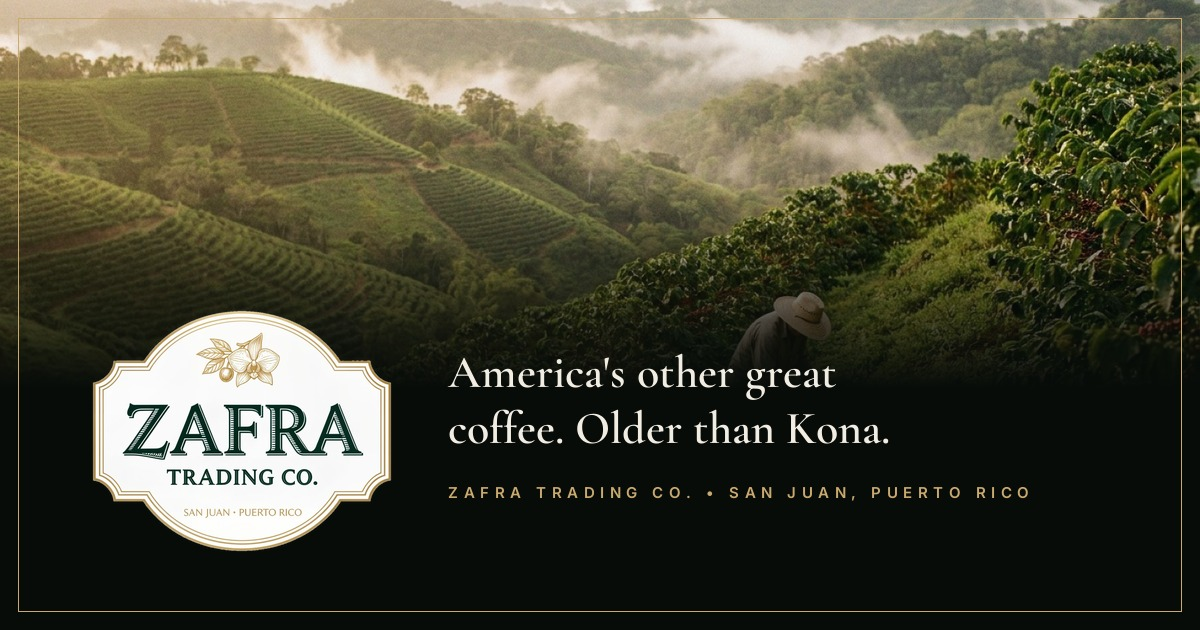
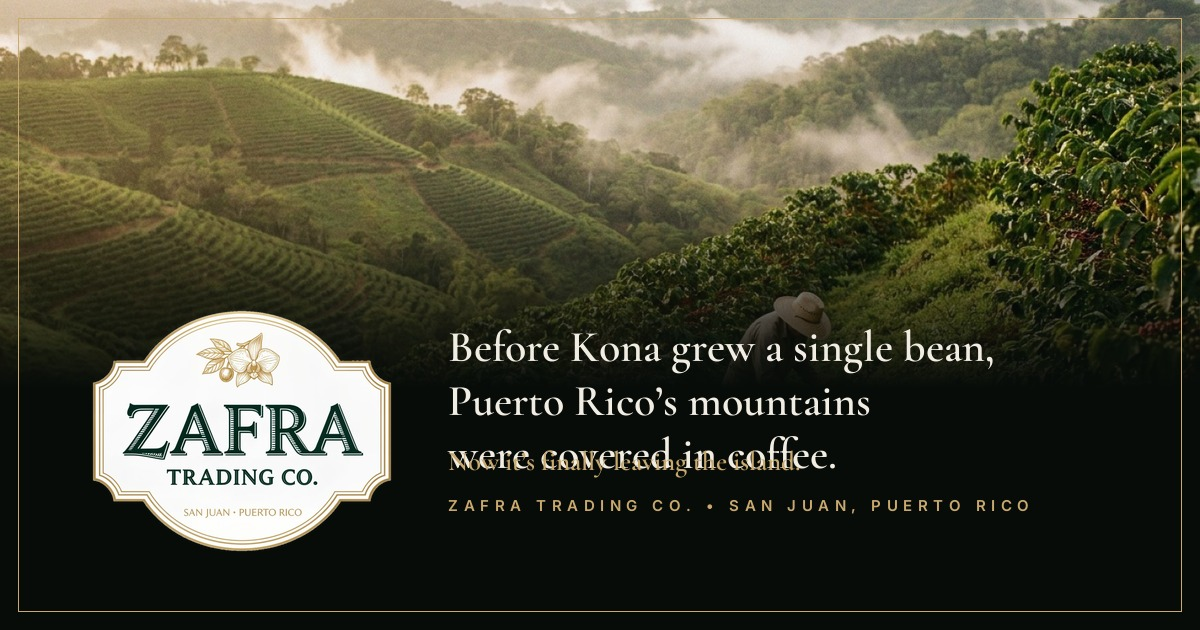
Rotating hero A/B/C (sticky per visitor, ?hero= preview, variant logged in signup mailto), focal recrop 66%, story 1900-1901 + Kona entry, OG/meta = variant A

Changed region(s): [[0.37, 0.5127, 0.8633, 0.8143]]

diff --git a/index.html b/index.html
@@ -3,7 +3,7 @@
 <head>
 <meta charset="UTF-8">
 <meta name="viewport" content="width=device-width, initial-scale=1.0">
-<title>Zafra Trading Co. — America's other great coffee.</title>
+<title>Zafra Trading Co. — Before Kona grew a single bean, Puerto Rico's mountains were covered in coffee.</title>
 <meta name="description" content="Hand-picked heirloom Arabica from named mountain farms in the Cordillera Central of Puerto Rico, with the farmer and the price we paid printed on every bag. First lots Spring 2027.">
 <link rel="icon" type="image/png" href="images/zafra-logo-shield.png">
 <link rel="preconnect" href="https://fonts.googleapis.com">
@@ -44,7 +44,7 @@ a:hover{color:var(--gold-600)}
 
 /* HERO — split: text owns the left half, coffee cherries own the right */
 .hero{position:relative;min-height:100vh;display:flex;align-items:center;overflow:hidden}
-.hero-bg{position:absolute;inset:0;background:url('images/hero-cherries.jpg') right center/cover no-repeat}
+.hero-bg{position:absolute;inset:0;background:url('images/hero-cherries.jpg') center center/cover no-repeat}
 .hero-overlay{position:absolute;inset:0;background:linear-gradient(90deg,rgba(6,12,8,.95) 0%,rgba(6,12,8,.88) 26%,rgba(6,12,8,.58) 44%,rgba(6,12,8,.14) 62%,rgba(6,12,8,0) 75%)}
 .hero-inner{position:relative;z-index:2;max-width:1200px;margin:0 auto;padding:150px 32px 110px;width:100%}
 .hero-copy{max-width:560px;text-align:left}
@@ -55,7 +55,7 @@ a:hover{color:var(--gold-600)}
 .hero-btns{display:flex;gap:14px;justify-content:flex-start;flex-wrap:wrap}
 @media(max-width:760px){
   .hero{align-items:flex-end;min-height:100svh}
-  .hero-bg{background-position:64% 42%}
+  .hero-bg{background-position:70% 42%}
   .hero-overlay{background:linear-gradient(180deg,rgba(6,12,8,.12) 0%,rgba(6,12,8,.24) 30%,rgba(6,12,8,.6) 48%,rgba(6,12,8,.94) 68%)}
   .hero-inner{padding:96px 24px 72px;max-width:none}
   .hero-copy{max-width:100%}
@@ -190,7 +190,7 @@ body{background:#0C130E}
 img{opacity:1}
 ::selection{background:#C9A96E;color:#0C130E}
 </style>
-<meta property="og:title" content="Zafra Trading Co. — America's other great coffee.">
+<meta property="og:title" content="Zafra Trading Co. — Before Kona grew a single bean, Puerto Rico's mountains were covered in coffee.">
 <meta property="og:description" content="Hand-picked heirloom Arabica from named mountain farms in the Cordillera Central of Puerto Rico, with the farmer and the price we paid printed on every bag. First lots Spring 2027.">
 <meta property="og:type" content="website">
 <meta property="og:url" content="https://zafratrading.com/">
@@ -198,7 +198,7 @@ img{opacity:1}
 <meta property="og:image:width" content="1200">
 <meta property="og:image:height" content="630">
 <meta name="twitter:card" content="summary_large_image">
-<meta name="twitter:title" content="Zafra Trading Co. — America's other great coffee.">
+<meta name="twitter:title" content="Zafra Trading Co. — Before Kona grew a single bean, Puerto Rico's mountains were covered in coffee.">
 <meta name="twitter:description" content="Hand-picked heirloom Arabica from named mountain farms in the Cordillera Central of Puerto Rico, with the farmer and the price we paid printed on every bag. First lots Spring 2027.">
 <meta name="twitter:image" content="https://zafratrading.com/images/og-card.jpg">
 </head>
@@ -228,8 +228,8 @@ img{opacity:1}
   <div class="hero-inner">
     <div class="hero-copy">
     <p class="hero-eyebrow">Shade-grown heirloom Arabica &middot; Cordillera Central, Puerto Rico</p>
-    <h1 class="hero-title">America&rsquo;s other great coffee.</h1>
-    <p class="hero-kicker">Older than Kona. Harder to find.</p>
+    <h1 class="hero-title">Before Kona grew a single bean, Puerto Rico&rsquo;s mountains were covered in coffee.</h1>
+    <p class="hero-kicker">Now it&rsquo;s finally leaving the island.</p>
     <p class="hero-sub">Hand-picked on named mountain farms, with the farmer and the price we paid printed on every bag. First lots Spring 2027.</p>
     <div class="hero-btns">
       <a class="hero-btn" href="#founding">Join the founding list</a>
@@ -312,7 +312,7 @@ img{opacity:1}
         <p class="door-label">For your home</p>
         <h3>The founding list</h3>
         <p>First in line when the harvest ships, the story of every lot before it does &mdash; and the subscription at launch.</p>
-        <form class="signup" onsubmit="event.preventDefault();var e=this.querySelector('input').value;window.location.href='mailto:info@zafratrading.com?subject='+encodeURIComponent('Founding list')+'&body='+encodeURIComponent('Add me to the founding list: '+e);this.querySelector('.signup-ok').style.display='block';return false;">
+        <form class="signup" onsubmit="event.preventDefault();var e=this.querySelector('input').value;var hv=window.zafraHero?window.zafraHero():'hero-na';window.location.href='mailto:info@zafratrading.com?subject='+encodeURIComponent('Founding list ['+hv+']')+'&body='+encodeURIComponent('Add me to the founding list: '+e+' ['+hv+']');this.querySelector('.signup-ok').style.display='block';return false;">
           <input type="email" placeholder="Your email" required>
           <button class="signup-btn" type="submit">Join</button>
           <p class="signup-ok">Opening your email app &mdash; press send and you&rsquo;re on the list.</p>
@@ -323,7 +323,7 @@ img{opacity:1}
         <p class="door-label">For hotels, caf&eacute;s, restaurants</p>
         <h3>Wholesale</h3>
         <p>Our standard: roasted on the island, shipped direct. Tell us your volume and your program &mdash; we&rsquo;ll tell you plainly what we can supply and when.</p>
-        <form class="signup" onsubmit="event.preventDefault();var e=this.querySelector('input').value;window.location.href='mailto:info@zafratrading.com?subject='+encodeURIComponent('Wholesale inquiry')+'&body='+encodeURIComponent('From: '+e);this.querySelector('.signup-ok').style.display='block';return false;">
+        <form class="signup" onsubmit="event.preventDefault();var e=this.querySelector('input').value;var hv=window.zafraHero?window.zafraHero():'hero-na';window.location.href='mailto:info@zafratrading.com?subject='+encodeURIComponent('Wholesale inquiry ['+hv+']')+'&body='+encodeURIComponent('From: '+e+' ['+hv+']');this.querySelector('.signup-ok').style.display='block';return false;">
           <input type="email" placeholder="Your email" required>
           <button class="signup-btn" type="submit">Inquire</button>
           <p class="signup-ok">Opening your email app &mdash; send us your volume and program.</p>
@@ -352,7 +352,7 @@ img{opacity:1}
   <div class="footer-tag">De la zafra al mundo &mdash; from the harvest, to the world</div>
   <div class="footer-signup">
     <p class="door-label">The founding list</p>
-    <form class="signup" onsubmit="event.preventDefault();var e=this.querySelector('input').value;window.location.href='mailto:info@zafratrading.com?subject='+encodeURIComponent('Founding list')+'&body='+encodeURIComponent('Add me to the founding list: '+e);this.querySelector('.signup-ok').style.display='block';return false;">
+    <form class="signup" onsubmit="event.preventDefault();var e=this.querySelector('input').value;var hv=window.zafraHero?window.zafraHero():'hero-na';window.location.href='mailto:info@zafratrading.com?subject='+encodeURIComponent('Founding list ['+hv+']')+'&body='+encodeURIComponent('Add me to the founding list: '+e+' ['+hv+']');this.querySelector('.signup-ok').style.display='block';return false;">
       <input type="email" placeholder="Your email" required>
       <button class="signup-btn" type="submit">Join</button>
       <p class="signup-ok">Opening your email app &mdash; press send and you&rsquo;re on the list.</p>
@@ -369,6 +369,26 @@ document.querySelectorAll('.nav-links a').forEach(a=>a.addEventListener('click',
 const obs=new IntersectionObserver((e)=>{e.forEach(en=>{if(en.isIntersecting)en.target.classList.add('visible')})},{threshold:.12});
 document.querySelectorAll('.reveal').forEach(el=>obs.observe(el));
 setTimeout(()=>document.querySelectorAll('.reveal').forEach(el=>el.classList.add('visible')),2500);
+</script>
+<script>
+/* Rotating hero — one variant per visitor, random on first visit, sticky on return. ?hero=a|b|c previews without saving. */
+(function(){
+  var V={
+    a:{h:"Before Kona grew a single bean, Puerto Rico\u2019s mountains were covered in coffee.",g:"Now it\u2019s finally leaving the island."},
+    b:{h:"The coffee your favorite roaster can\u2019t get.",g:"The island doesn\u2019t share. So we bought a farm."},
+    c:{h:"The heirloom coffee that almost disappeared.",g:"Now we\u2019re bringing it back, one ripe cherry at a time."}
+  };
+  var q=(location.search.match(/[?&]hero=([abc])/i)||[])[1],k=null;
+  if(q){k=q.toLowerCase();}
+  else{
+    try{k=localStorage.getItem('zafra-hero')}catch(e){}
+    if(!V[k]){k='abc'[Math.floor(Math.random()*3)];try{localStorage.setItem('zafra-hero',k)}catch(e){}}
+  }
+  var t=document.querySelector('.hero-title'),g=document.querySelector('.hero-kicker');
+  if(t&&V[k]){t.textContent=V[k].h}
+  if(g&&V[k]){g.textContent=V[k].g}
+  window.zafraHero=function(){return 'hero-'+((k&&V[k])?k.toUpperCase():'na')};
+})();
 </script>
 <script src="assets/agente-widget.js" defer></script>
 </body>

diff --git a/story.html b/story.html
@@ -157,11 +157,15 @@ img{opacity:1}
     </div>
     <div class="tl-item">
       <div class="tl-year">The golden age</div>
-      <div class="tl-text">By the end of the 19th century, Puerto Rican coffee is poured in the courts of Europe and at the Pope&rsquo;s table, shipped out from Ponce.</div>
+      <div class="tl-text">By the end of the 19th century, Puerto Rican coffee is served across Europe, shipped out from Ponce.</div>
     </div>
     <div class="tl-item">
       <div class="tl-year">1899</div>
       <div class="tl-text">Hurricane San Ciriaco.</div>
+    </div>
+    <div class="tl-item">
+      <div class="tl-year">1900&ndash;1901</div>
+      <div class="tl-text">After the hurricanes, nearly 6,000 Puerto Ricans sail to Hawaii to work the sugar plantations. Some go on to farm coffee in Kona: by 1932, Puerto Rican families are among the owners of Kona&rsquo;s coffee farms.</div>
     </div>
     <div class="tl-item">
       <div class="tl-year">The long decline</div>

diff --git a/brand/gen_og_v3.py b/brand/gen_og_v3.py
@@ -44,22 +44,26 @@ def tracked(xy, text, font, fill, track=5):
         x += d.textlength(ch, font=font) + track
     return x - track
 
-# headline (the site hero's own line)
-h1a, h1b = "America's other great", 'coffee. Older than Kona.'
+# headline (rotating hero variant A) + its gold line
+h1a, h1b, h1c = 'Before Kona grew a single bean,', "Puerto Rico\u2019s mountains", 'were covered in coffee.'
+gold_line = 'Now it\u2019s finally leaving the island.'
 f_head = None
-for size in (46, 42, 38, 34):
+for size in (44, 40, 36, 32):
     cand = serif_sb(size)
-    if all(d.textlength(line, font=cand) <= W - TX - 64 for line in (h1a, h1b)):
+    if all(d.textlength(line, font=cand) <= W - TX - 64 for line in (h1a, h1b, h1c)):
         f_head, h_size = cand, size
         break
 assert f_head, 'headline does not fit'
-hy = LY + 34
+hy = LY + 10
 d.text((TX, hy), h1a, font=f_head, fill=CREAM)
 d.text((TX, hy + round(h_size * 1.22)), h1b, font=f_head, fill=CREAM)
+d.text((TX, hy + round(h_size * 2.44)), h1c, font=f_head, fill=CREAM)
+gy = hy + round(h_size * 2.44) + round(h_size * 0.42)
+d.text((TX, gy), gold_line, font=serif_sb(round(h_size * 0.62)), fill=GOLD)
 
 # footer caps
 ft = 'ZAFRA TRADING CO. \u2022 SAN JUAN, PUERTO RICO'
-fw = tracked((TX, hy + round(h_size * 2.62) + 18), ft, sans_sb(15), GOLD, 5.5)
+fw = tracked((TX, gy + round(h_size * 0.85) + 14), ft, sans_sb(15), GOLD, 5.5)
 
 # --- thin gold frame, house style ---
 d.rectangle([18, 18, W - 19, H - 19], outline=GOLD, width=1)
@@ -69,7 +73,7 @@ img.save('/Users/santiago/repos/zafra-site/images/og-image.jpg', quality=92)
 
 # --- numeric QA (measured, not eyeballed) ---
 g = img.convert('L')
-band = g.crop((TX, hy, TX + int(d.textlength(h1a, font=f_head)), hy + round(h_size * 2.6)))
+band = g.crop((TX, hy, TX + int(d.textlength(h1a, font=f_head)), gy + round(h_size * 0.8)))
 m = ImageStat.Stat(band).mean[0]
 contrast = (242 + 0.05) / (m + 0.05)          # cream vs local bg
 print(f'headline size {h_size}px | footer right edge {int(fw)} (limit {W - 64}) | '
